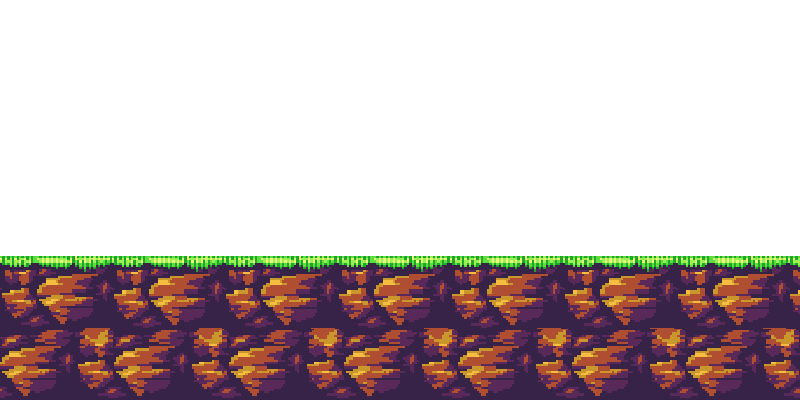
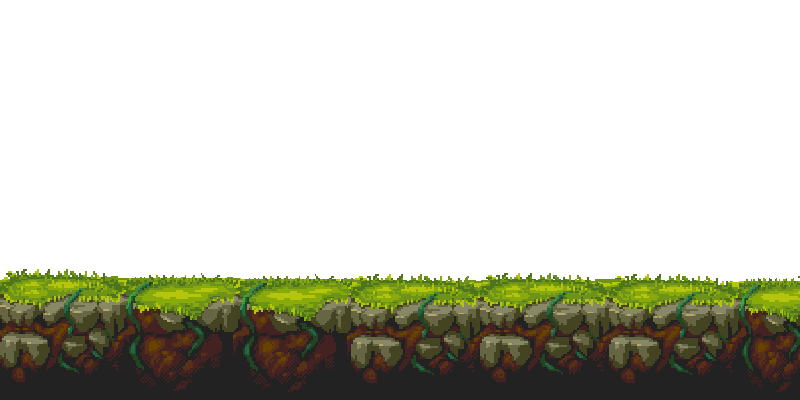
updated assets

diff --git a/main.py b/main.py
@@ -14,38 +14,51 @@ clock = pygame.time.Clock()
 font = pygame.font.Font("font/pixeltype.ttf", 50)
 
 # Create a surface
-sky_surface = pygame.image.load("graphics/sky.png").convert_alpha() # convert into a more efficient file format
+sky1_surface = pygame.image.load("graphics/sky1.png").convert_alpha() # convert into a more efficient file format
+sky2_surface = pygame.image.load("graphics/sky2.png").convert_alpha()
 ground_surface = pygame.image.load("graphics/ground.png").convert_alpha()
-text_surface = font.render("My game", False, "Black")
+score_surface = font.render("Score", False, "White")
+score_rectangle = score_surface.get_rect(center = (400, 50) )
 
 # Characters
-pig_surface = pygame.image.load("graphics/pig/pig1.png").convert_alpha()
-pig_x_position = 800
+npc1_surface = pygame.image.load("graphics/mushroom/mushroom1.png").convert_alpha()
+npc1_rectangle = npc1_surface.get_rect(midbottom = (800, 290))
 
 player_surface = pygame.image.load("graphics/player/player-run-1.png").convert_alpha()
-# creating rectangle
-player_rectangle = player_surface.get_rect(midbottom = (80, 275))
+player_rectangle = player_surface.get_rect(midbottom = (80, 290))
+
 
 # Game loop
 while True:
-    #get every event anc check user input
+    # get every event anc check user input
     for event in pygame.event.get():
         if event.type == pygame.QUIT:
             pygame.quit()
             exit()
+        # if mouse collides with player rectangle print collision
+        if event.type == pygame.MOUSEMOTION:
+            if player_rectangle.collidepoint(event.pos): print("collision")
 
-    #display surface on screen
-    screen.blit(sky_surface,(0,0)) # 1
-    screen.blit(ground_surface,(0, 20)) # 2 ...
-    screen.blit(text_surface,(300, 20))
+    # display surface on screen
+    screen.blit(sky1_surface,(0,0)) # 1
+    screen.blit(sky2_surface,(0,-40)) # 2
+    screen.blit(ground_surface,(0, 0)) # 3 ...
+    # draw an rectangle
+    pygame.draw.rect(screen, "cadetblue2", score_rectangle)
+    screen.blit(score_surface,score_rectangle)
 
     # display pig in a loop
-    pig_x_position -= 4
-    if pig_x_position == -120: pig_x_position = 800
-    screen.blit(pig_surface,(pig_x_position, 190))
+    npc1_rectangle.x -= 4
+    if npc1_rectangle.right <= 0: npc1_rectangle.left = 800
+    screen.blit(npc1_surface, npc1_rectangle )
 
     # player
-    screen.blit(player_surface,(player_rectangle))
+    screen.blit(player_surface,player_rectangle)
+    # Check collition
+
+    #if player_rectangle.colliderect(npc1_rectangle):
+    #    print("collision")
+
 
     #update screen surface
     pygame.display.update()
